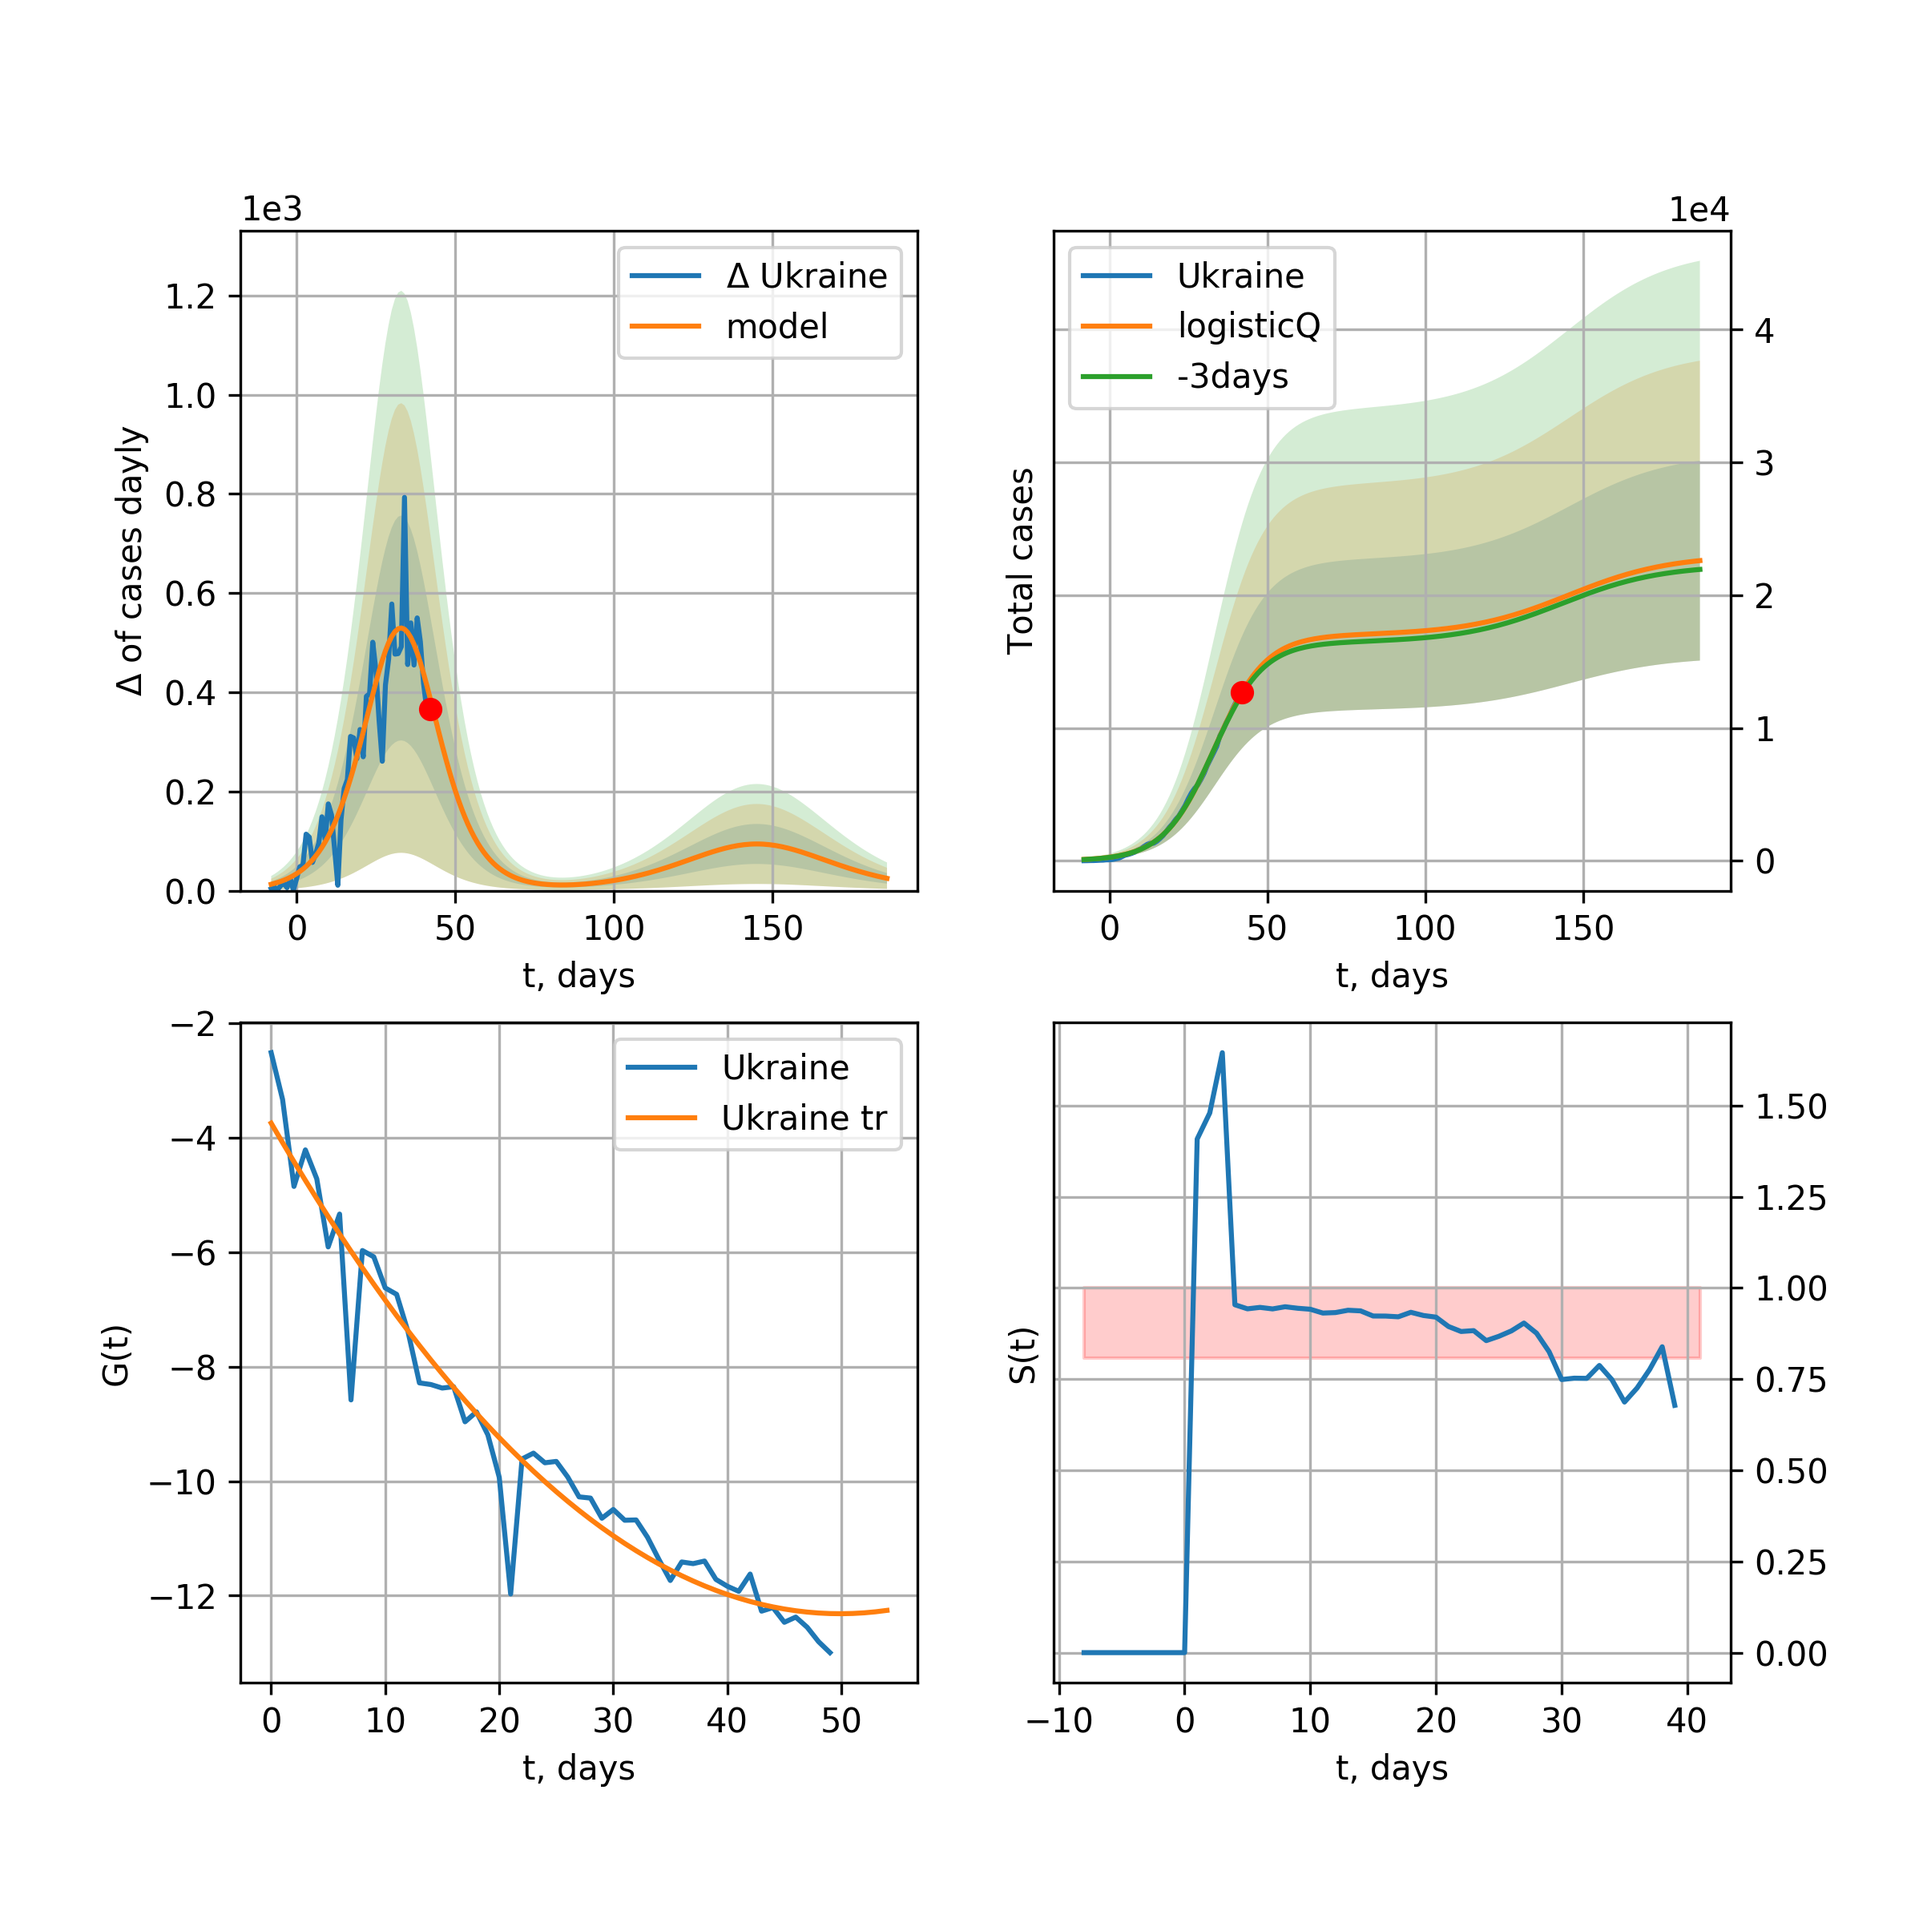
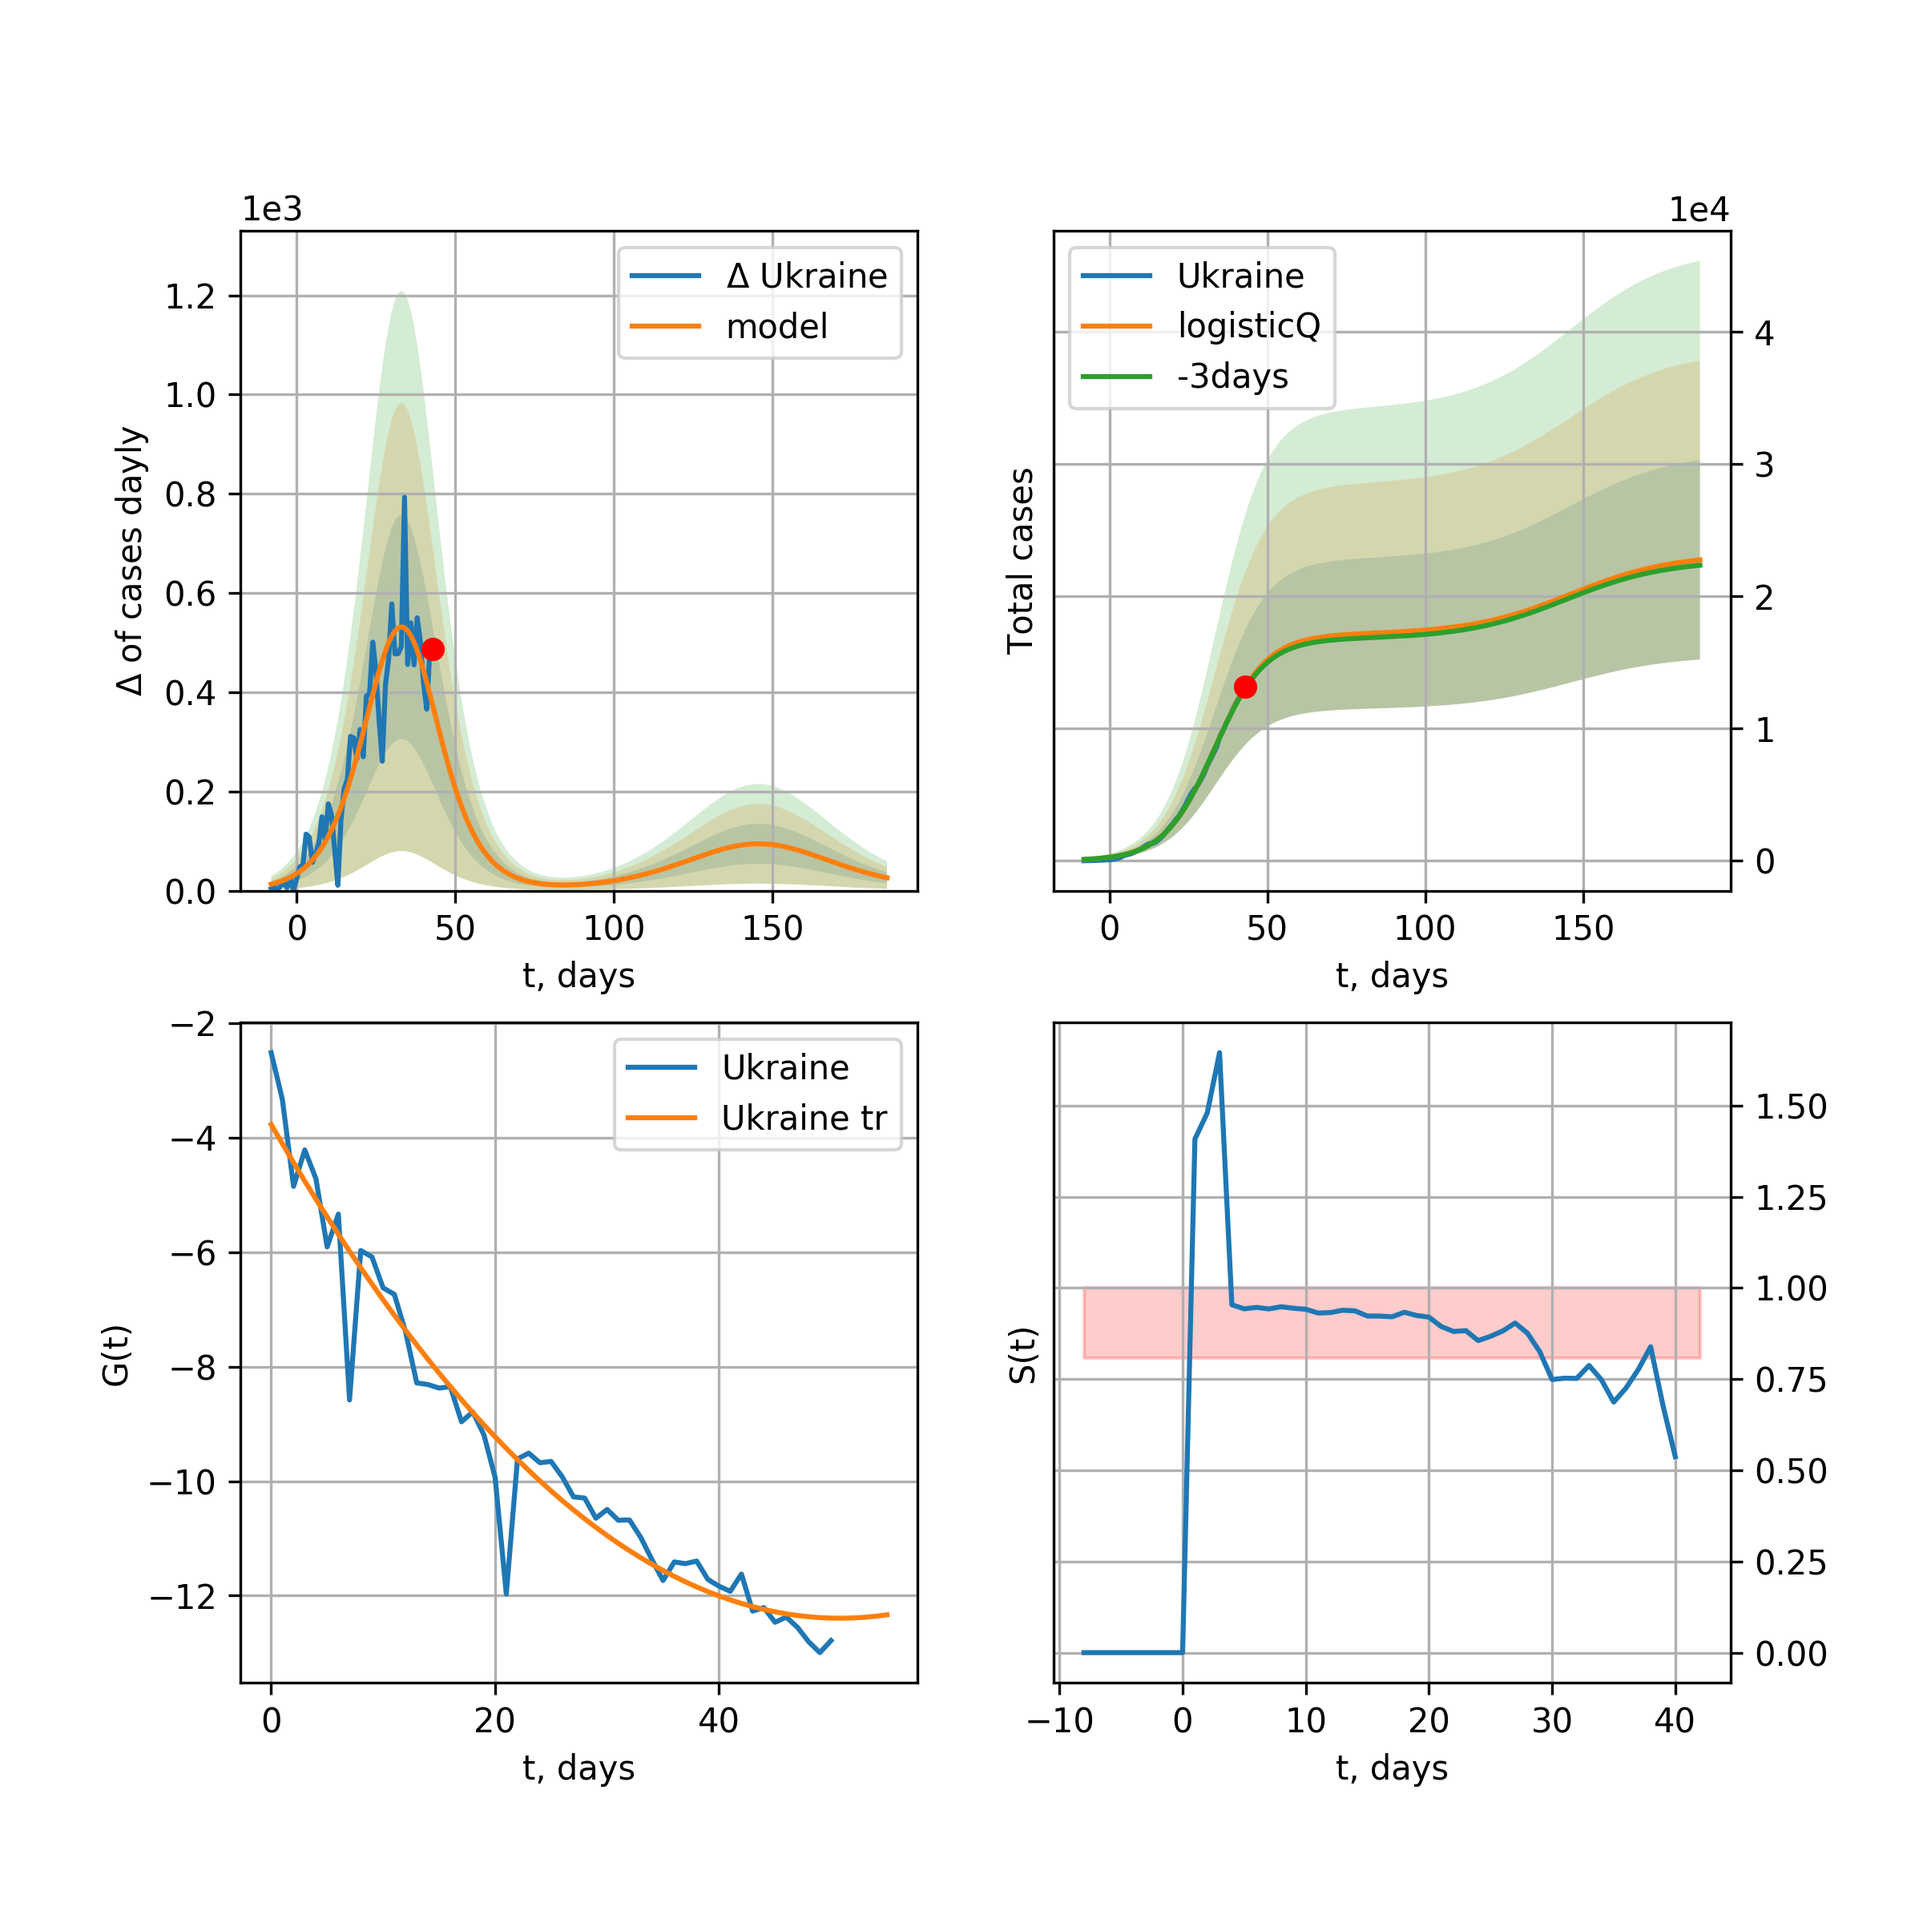
Ukraine renew 2020-05-05

diff --git a/_site/index.html b/_site/index.html
@@ -777,19 +777,19 @@ trend coefficient of determination: 0.985534 <br />
     <br />
     <img src="pictures/covidcasesUkraine35_Q.png" alt="hi" class="inline"/><br /> 
 
-      Ukraine data at: 2020-05-04<br />
-+3 day model MAPE: 0.013859<br />
+      Ukraine data at: 2020-05-05<br />
++3 day model MAPE: 0.008663<br />
 model: logisticQ<br />
-coeffs: [ 1.70017450e+04  6.73529045e-06  3.33744741e+01 -1.84650694e+04]<br />
+coeffs: [ 1.71344099e+04  6.61593554e-06  3.35052472e+01 -1.87197443e+04]<br />
 S.Korea scenario coeffs: [0.35416971, 0.02606324, 4.35859408, 19.30413219]<br />
-rational stdev: 0.333034<br />
-forecast at the end of period: +145 days<br />
-	 deltaDaycases: 24<br />
-	 total cases: 22607 ± 7528<br />
-	 total death: 555 ± 554<br />
-trend coefficient of determination: 0.940979 <br />
- intercept_: -3.7464061957209216 <br />
- coeffs_: [ 0.         -0.34359632  0.00344419]<br />
+rational stdev: 0.331329<br />
+forecast at the end of period: +144 days<br />
+	 deltaDaycases: 26<br />
+	 total cases: 22764 ± 7542<br />
+	 total death: 566 ± 562<br />
+trend coefficient of determination: 0.942281 <br />
+ intercept_: -3.7699252067720703 <br />
+ coeffs_: [ 0.         -0.33965346  0.00334408]<br />
           <br /> 
     
     South_Korea
